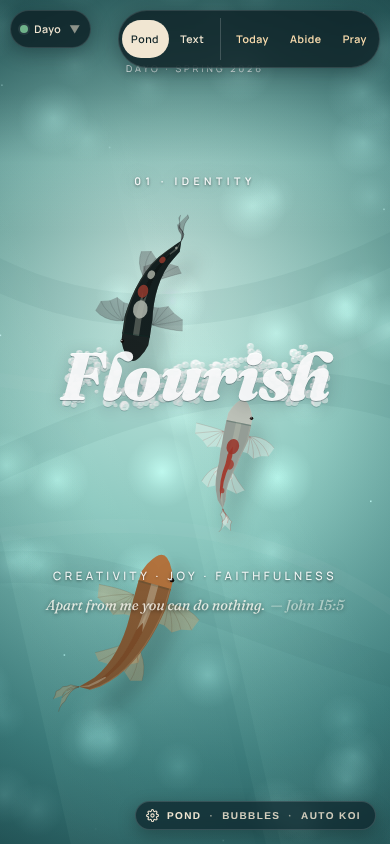
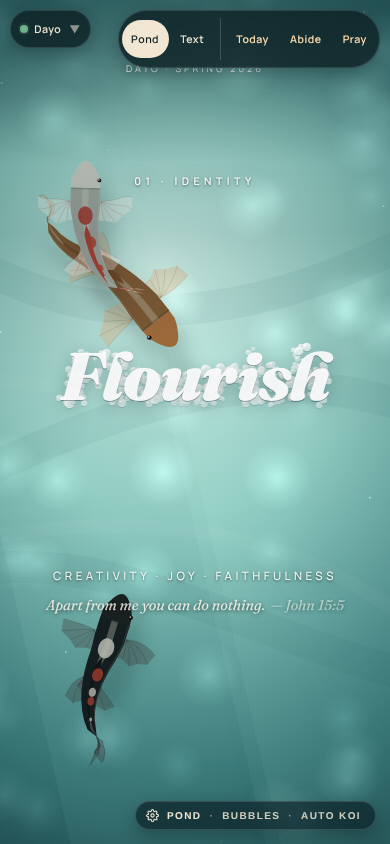
Quiet Waters: no 'Dad prayed for Dad'; digest with the walkthrough; fresh screens

diff --git a/src/app/screens/Sitting.jsx b/src/app/screens/Sitting.jsx
@@ -92,7 +92,11 @@ function Run({ day, present, onChange }) {
     const who = peopleOf(day.household, s[0].who);
     const h = Number(String(s[0].at).slice(0, 2));
     const when = h < 12 ? 'this morning' : h < 17 ? 'this afternoon' : 'this evening';
-    return `${andNames(who, true)} prayed for ${andNames(day.forPeople, true)} ${when}. Now it’s your turn.`;
+    // If whoever prayed is one of today's two, don't say "Dad prayed for Dad".
+    const self = who.some((p) => day.forPeople.some((f) => f.id === p.id));
+    return self
+      ? `${andNames(who, true)} prayed ${when} too. Now it’s your turn.`
+      : `${andNames(who, true)} prayed for ${andNames(day.forPeople, true)} ${when}. Now it’s your turn.`;
   }, []);  // eslint-disable-line react-hooks/exhaustive-deps
 
   const sitting = useMemo(() => buildSitting({

diff --git a/bakeoff/entries/C/DIGEST.md b/bakeoff/entries/C/DIGEST.md
@@ -32,7 +32,7 @@ All in one working session. The order is visible in `git log`.
 2. **One prayer a day, many sittings.**
    - Per the Q&A, moments 1 and 2 are two sittings of the same prayer.
    - Each Amen records who prayed (`sittings[].who`). A morning Amen marks only Dad.
-   - The evening sitting says "Dad prayed for Kit and Mum this morning. Now it's your
+   - The evening sitting says, for example, "Dad prayed for Ada and Mum this morning. Now it's your
      turn."
 3. **Who's here decides how to pray, so there are no settings for it.**
    - One grown-up: silent, first person, the verse twice and stillness.
@@ -110,9 +110,9 @@ moment.
 | # | Moment | How it's served | Deep link |
 |---|---|---|---|
 | 1 | 06:45, Dad, phone, bedside | Night pond, then *Pray*: two taps from the icon. Night paper. Three breaths, the verse twice with its word in gold, 20 s of quiet, the prayer one thought at a time with *Wandered?* (the week's word and breath prayer), a line for them, the blessing, Amen, three seconds of held silence, then their koi rise. Notes on the passage are offered after Amen. | `/?demo=1&h=6.75` then *Pray* · straight in: `/?demo=1&h=6.75#/pray` |
-| 2 | After dinner, children, tablet | Who's here is remembered. "Dad prayed for Kit and Mum this morning. Now it's your turn." The verse read together, simple words, each card read by a different child (koi colour), "I wonder…", the blessing together, Amen and the koi (feed them), then *Play the verse*: four steps, different words each time, turns in koi colours, several fingers at once, a hint after 8 s. *Today's prayer* (with names) is the second game. | `/?demo=1&h=19#/pray` · `/?demo=1&h=19#/play` |
+| 2 | After dinner, children, tablet | Who's here is remembered, and shown on the first card with each child's koi and "Not right? Change". It opens with "Dad prayed for … this morning. Now it's your turn." The verse read together, simple words, each card read by a different child (koi colour), "I wonder…", the blessing together, Amen and the koi (feed them), then *Play the verse*: four steps, different words each time, turns in koi colours, several fingers at once, a hint after 8 s. *Today's prayer* (with names) is the second game. | `/?demo=1&h=19#/pray` · `/?demo=1&h=19#/play` |
 | 3 | Sunday, household, one screen | The Lord's Prayer; everyone held, each with their season word; the week's verse said together from first letters ("We said it by heart" opens a lotus); the week looked back on; Amen with everyone's koi. | `/?demo=1&h=17&day=sun#/pray` |
-| 4 | A glance in passing | After a minute the slip sinks away. The idle pond shows the family's word, the week's verse and "Today · Kit and Jo", with the names beside their koi. It changes with the clock (dawn, day, dusk, night) and the season. Settings → *Keep the screen on* holds a wake lock. | `/?demo=1&h=21&idle=1` · by day: `/?demo=1&h=11&idle=1` |
+| 4 | A glance in passing | After a minute the slip sinks away. The idle pond shows the family's word, the week's verse and "Today · …" with today's two names, which also float beside their koi. It changes with the clock (dawn, day, dusk, night) and the season. Settings → *Keep the screen on* holds a wake lock. | `/?demo=1&h=21&idle=1` · by day: `/?demo=1&h=11&idle=1` |
 | 5 | Clearing the ground | *Into the deep* (see decision 7). Offered on the slip on Saturday evenings; a quiet link otherwise. | grown-up: `/?demo=1&h=21.5#/deep?who=sam` · children: `/?demo=1&h=19#/deep?who=ada,kit,noor` · the offer: `/?demo=1&h=20&day=sat` |
 | 6 | Looking back | The pond after six weeks: seven pads and four lotuses. *This season*: the words, the weeks with their verses and lotuses, the lines written in the morning, and the book of seasons. | `/?demo=1&h=12` · `/?demo=1&h=12#/season` |
 | 7 | New term or season | *Begin a new season*: name it, pass the tablet to each person for one word (children tap, nobody has to type), choose the family's word and practices, review, begin. The old season goes into the book; the pond starts clear. Two weeks before a season's end, the slip offers the look back. | `/?demo=1&h=12#/season/new` |
@@ -120,7 +120,8 @@ moment.
 
 Other states:
 - Returning after a gap: `/?demo=1&h=8.5&away=5`.
-- Already prayed today: `/?demo=1&h=21`, where *Pray* has gone quiet.
+- Already prayed today: `/?demo=1&h=21`, where *Pray* has gone quiet for whoever usually prays at
+  that time.
 - Winter: `&season=winter`.
 - Printed card: `/?demo=1#/print`.
 
@@ -138,7 +139,7 @@ evening), and `21` to `22` (night), plus `season=winter`.
 
 | Check | Result | Fixed |
 |---|---|---|
-| Every room loads at both sizes with no console or page errors | Pass | — |
+| Every room loads at both sizes with no console or page errors | Pass, ours and the independent walkthrough | — |
 | The 06:45 sitting, end to end | Pass. Two taps from the icon to its first words. | — |
 | The children's sitting, end to end, then Play | Pass | — |
 | Sunday, end to end | Pass | The verse's stepping stones crowded together, so they are now laid out word by word. |
@@ -164,7 +165,69 @@ Android tablet has GPU canvas.
 
 ## Walkthroughs (usability test)
 
-*(Filled in from the independent walkthrough, below.)*
+A fresh reviewer, with no access to our reasoning, drove the running app by tapping
+visible controls only, as three people. There were no console or page errors. Here is
+what they found, and what we did.
+
+**Dad at 06:45 (phone).**
+- Two taps from the pond to the first words: the breath prayer and the names. The
+  intercession itself comes after the verse and the stillness, which is by design. Ten
+  taps from pond to pond.
+- Nothing glaring at night.
+- Hesitations:
+  - "Stay a moment" skipped the stillness when tapped, the opposite of what it says.
+    **Fixed:** it now reads *Skip the quiet*, and *Continue* when the twenty seconds are
+    up.
+  - The Settings icon read as a sun or brightness toggle. **Fixed:** a real gear.
+  - "Tap the water. Double-tap to feed the koi." is app talk at dawn. **Fixed:** the
+    hint no longer shows in the morning or at night.
+  - Koi and their name tags crossed the verse. **Fixed:** koi no longer rest on the
+    words; their resting places are moved to the side of the still water. They still
+    cross beneath.
+- **Not changed:** "Read it again" and "Be still" as button names. The reviewer wanted
+  "Next". We think the instruction *is* the step at 06:45, and the eyebrow label says the
+  same. A judgement call.
+- **Not changed:** *Wandered?* under each prayer card. It is the quiet way back the
+  spiritual director asked for.
+
+**Two children, 7 and 9, after dinner (tablet).**
+- The sitting opened on "Praying: Ada, Kit and Noor" from the last evening, and the small
+  "· change" wasn't noticed. **Fixed:**
+  - On children's sittings the first card shows each child's koi, "Here: …" and a full
+    "Not right? Change" button.
+  - The picker's button says *Done* and goes straight on.
+- "Help Jesus to live deep in their hearts" read as asking God to help Jesus. **Fixed:**
+  "Please let Jesus live deep in their hearts."
+- In the puzzle:
+  - Nothing said what to do. **Fixed:** "Drag or tap the next word."
+  - The live slot glowed red (Ada's koi colour) and looked like an error. **Fixed:** the
+    slot is gold, and the turn colour is only its underline.
+  - Dragging, tapping and finishing a round all worked.
+- In *Into the deep*:
+  - Next stayed disabled until every listed child had thrown, so an absent child blocked
+    the others. **Fixed:** any child can finish.
+  - "A grown-up reads this out loud" showed with no grown-up present. **Fixed:** it says
+    "Read this out loud together" unless a grown-up is among those here.
+- **Not changed:**
+  - "Well done!" at the end of a round. The voice guide bans exclamation marks, and the
+    gold sweep and the passing koi are the celebration.
+  - Giving the shortest line to the youngest reader (a good idea; noted for another day).
+
+**A new family on first run (phone).**
+- Setup was smooth.
+- *This season* was offered twice on the pond (the offer and the link). **Fixed:** the
+  link is hidden while the offer shows.
+- After beginning a season, the first button on the result was "Begin a new season".
+  **Fixed:** *Back to the pond* comes first.
+- Dusk text on the pond looked low-contrast over the sunlit centre. **Fixed:** the dusk
+  water's centre is darker and its still-water halo is stronger.
+- **Not changed:**
+  - A child whose own name is in today's pair hears the prayer for them while reading it.
+    That is the household's rota, and we kept it.
+  - Children are asked "this term" and grown-ups "this season". This is deliberate.
+
+Our own persona walks before that (Playwright, the same three people plus Sunday) led to
+the earlier fixes listed under Testing.
 
 ## Self-critique: what we cut and why
 
